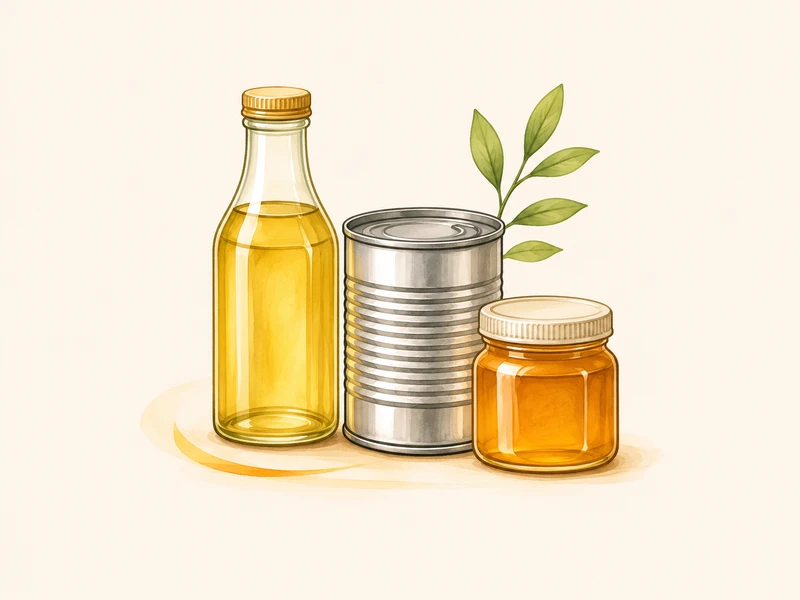
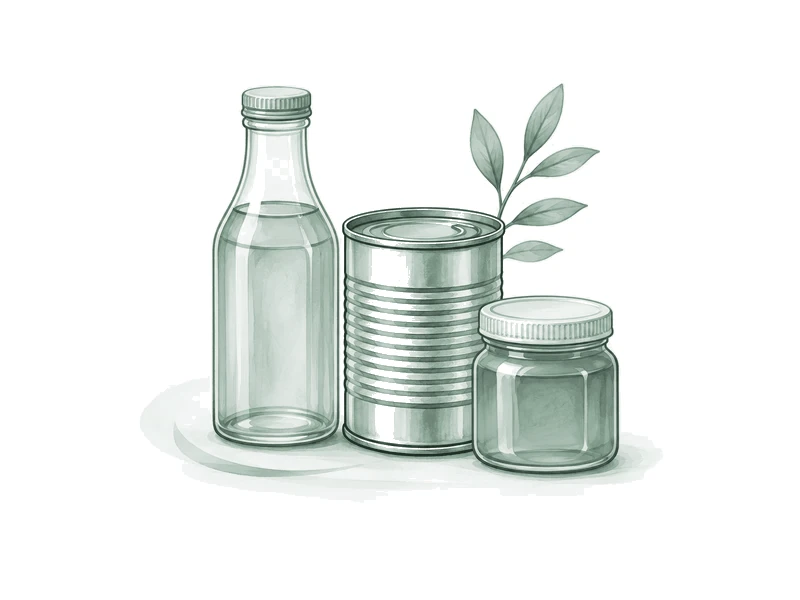
feat(menu,applications): green-graded illustration set shared by the Applications dropdown and /applications; cool white ground, no warm cast

Changed region(s): [[0.1562, 0.12, 0.8438, 0.84]]

diff --git a/components/global/MegaMenu.vue b/components/global/MegaMenu.vue
@@ -79,7 +79,18 @@ function handleKeydown(e: KeyboardEvent) {
               class="mega-menu__app-card"
               @click="emit('close')"
             >
-              <div class="mega-menu__app-card-photo" aria-hidden="true" />
+              <div class="mega-menu__app-card-photo">
+                <!-- Same mapping as /applications: category name is real text, so the art is decorative.
+                     Eager, not lazy: the cards scroll horizontally, so a lazy image would stay blank
+                     until it was scrolled into view. Eight files of ~30–50 KB make eager safe. -->
+                <img
+                  :src="applicationArtPath(applicationSlugFromPath(card.to))"
+                  alt=""
+                  width="800"
+                  height="600"
+                  loading="eager"
+                >
+              </div>
               <div class="mega-menu__app-card-body">
                 <span class="mega-menu__app-card-label">{{ card.label }}</span>
                 <span class="mega-menu__app-card-view" aria-hidden="true">
@@ -296,7 +307,19 @@ function handleKeydown(e: KeyboardEvent) {
 
 .mega-menu__app-card-photo {
   height: 96px;
-  background: linear-gradient(135deg, var(--color-primary-deep) 0%, var(--color-primary) 100%);
+  /* Cool white ground from the 冷绿光 spec; the artwork itself carries the pale green light. */
+  background: #F2F8F4;
+  display: grid;
+  place-items: center;
+  overflow: hidden;
+}
+
+/* Contain, never cover: the illustration must show its whole subject inside the fixed height. */
+.mega-menu__app-card-photo img {
+  width: 100%;
+  height: 100%;
+  object-fit: contain;
+  display: block;
 }
 
 .mega-menu__app-card-body {

diff --git a/utils/applicationArt.ts b/utils/applicationArt.ts
@@ -1,0 +1,26 @@
+/**
+ * Single source of truth for the application illustrations.
+ *
+ * The `/applications` page and the Applications dropdown both resolve their artwork through these
+ * helpers, so replacing a file updates both places at once — there is no second mapping to drift.
+ *
+ * Files live in `public/images/applications/<slug>.webp` and are the exported, on-brand hand-drawn
+ * set (cool white ground, grey-green line work). They are category hints, never product photos.
+ */
+
+const ART_DIR = '/images/applications'
+
+/** Artwork URL for an application slug, e.g. `packaged-food`. */
+export function applicationArtPath(slug: string): string {
+  return `${ART_DIR}/${slug}.webp`
+}
+
+/**
+ * Slug from a resolved application route. `to` may carry a locale prefix (`/es/applications/...`)
+ * and a query/hash, so the last path segment is taken rather than pattern-matching the prefix.
+ */
+export function applicationSlugFromPath(to: string): string {
+  const clean = to.split('?')[0]!.split('#')[0]!.replace(/\/+$/, '')
+  const idx = clean.lastIndexOf('/')
+  return idx === -1 ? clean : clean.slice(idx + 1)
+}

diff --git a/pages/applications/index.vue b/pages/applications/index.vue
@@ -49,7 +49,7 @@ useSeoHead({
               -->
               <img
                 class="app-card__image"
-                :src="`/images/applications/${INDUSTRY_GUIDES[index].slug}.webp`"
+                :src="applicationArtPath(INDUSTRY_GUIDES[index].slug)"
                 alt=""
                 width="800"
                 height="600"
